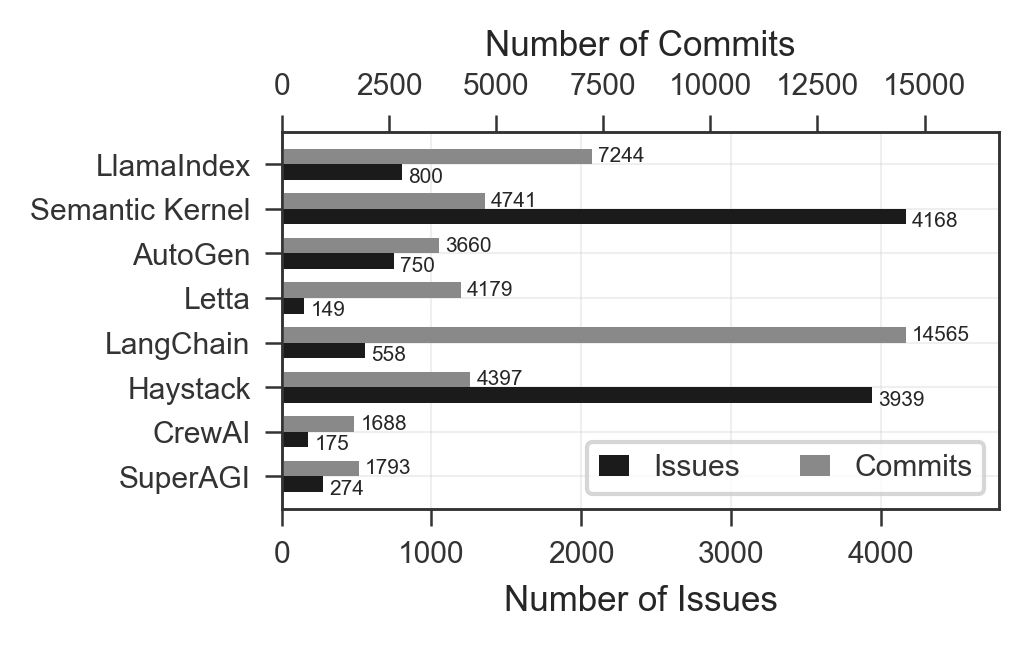
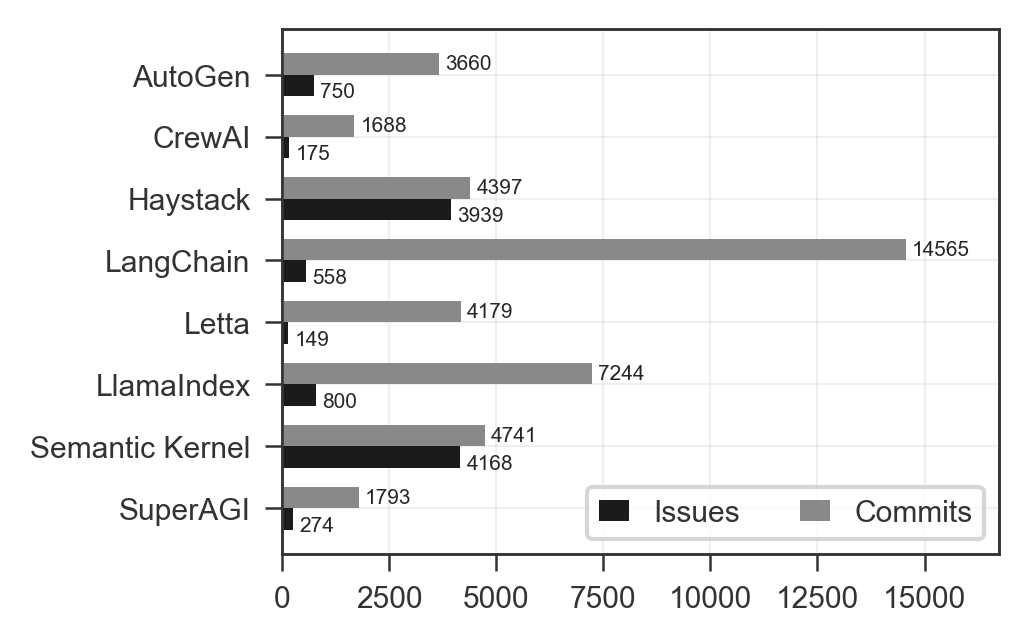
fix: issues and commits comparison

diff --git a/scripts/create_repository_summary.py b/scripts/create_repository_summary.py
@@ -78,8 +78,12 @@ def issues_and_commits_dual_axis(df, commits_df, issues_col, commits_col):
     # Get commits counts
     commits_counts = commits_df[commits_col].value_counts()
 
-    # Get all repositories (union of both datasets)
-    all_repos = sorted(set(issues_counts.index) | set(commits_counts.index))
+    # Get all repositories (union of both datasets) and sort by display name (repo name only) in reverse for top-to-bottom display
+    all_repos = sorted(
+        set(issues_counts.index) | set(commits_counts.index),
+        key=lambda x: REPO_NAME_TO_DISPLAY.get(x, x),
+        reverse=True,
+    )
 
     # Prepare data
     cleaned_labels = [REPO_NAME_TO_DISPLAY.get(repo, repo) for repo in all_repos]
@@ -95,16 +99,20 @@ def issues_and_commits_dual_axis(df, commits_df, issues_col, commits_col):
     y_pos = range(len(cleaned_labels))
     bar_height = 0.35
 
+    # Calculate the common scale based on the maximum of both datasets
+    max_value = max(max(issues_values), max(commits_values))
+    common_limit = max_value * 1.15
+
     # Set up axes properties and grid FIRST before plotting
-    ax1.set_xlabel("Number of Issues", fontsize=FONT_SIZES["axis_label"])
     ax1.set_yticks(y_pos)
     ax1.set_yticklabels(cleaned_labels)
-    ax1.set_xlim(0, max(issues_values) * 1.15)
+    ax1.set_xlim(0, common_limit)
 
     # Create second x-axis for commits (top)
     ax2 = ax1.twiny()
-    ax2.set_xlabel("Number of Commits", fontsize=FONT_SIZES["axis_label"])
-    ax2.set_xlim(0, max(commits_values) * 1.15)
+    ax2.set_xlim(0, common_limit)
+    ax2.set_xticklabels([])  # Hide tick labels since both axes share the same scale
+    ax2.tick_params(axis="x", which="both", length=0)  # Hide tick marks
 
     # NOW plot issues on the first axis (bottom)
     bars1 = ax1.barh(
@@ -119,7 +127,7 @@ def issues_and_commits_dual_axis(df, commits_df, issues_col, commits_col):
     for bar, value in zip(bars1, issues_values):
         if value > 0:
             ax1.text(
-                value + max(issues_values) * 0.01,
+                value + max_value * 0.01,
                 bar.get_y() + bar.get_height() * 0.2,
                 f"{int(value)}",
                 ha="left",
@@ -136,11 +144,11 @@ def issues_and_commits_dual_axis(df, commits_df, issues_col, commits_col):
         color=light_color,
     )
 
-    # Add value labels for commits (positioned lower to avoid being too high)
+    # Add value labels for commits
     for bar, value in zip(bars2, commits_values):
         if value > 0:
             ax2.text(
-                value + max(commits_values) * 0.01,
+                value + max_value * 0.01,
                 bar.get_y() + bar.get_height() * 0.5,
                 f"{int(value)}",
                 ha="left",
